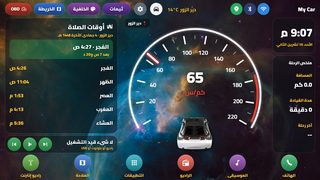
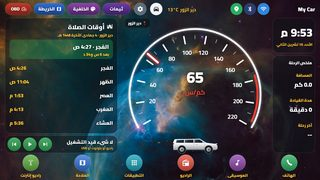
My Car 1.2: car photos in every layout, source picker, no 3D model
Claude-Session: https://claude.ai/code/session_015xrSH4UAYtdUyaKS9kpf7A

Changed region(s): [[0.5312, 0.6389, 0.6875, 0.8611], [0.9375, 0.1389, 0.9688, 0.2222]]

diff --git a/changelogs/1.2.md b/changelogs/1.2.md
@@ -1,0 +1,7 @@
+## My Car 1.2 — صورة سيارتك في كل التصاميم
+
+- **سؤال المصدر أولاً**: فلاشة USB أو ذاكرة الشاشة أو المعرض، وبعدها قائمة صور مصغّرة (الأحدث أولاً). نفس الشي لصورة الخلفية.
+- **3 صور للسيارة**: من الخلف (داخل العدّاد)، من فوق وخلف (وضع القيادة)، وجانبية (تيسلا والكلاسيكي). وإذا ناقصة وحدة يُستعمل الأقرب لها.
+- الصورة تظهر الآن في **كل** التصاميم السبعة.
+- حذف المجسّم الجاهز. بدون صور تظهر السيارة المرسومة بنوعها ولونها.
+- الطريق: الإعدادات ← سوريا ← الثيمات ← صورة السيارة (أو اضغط على السيارة بتصميم تيسلا).
